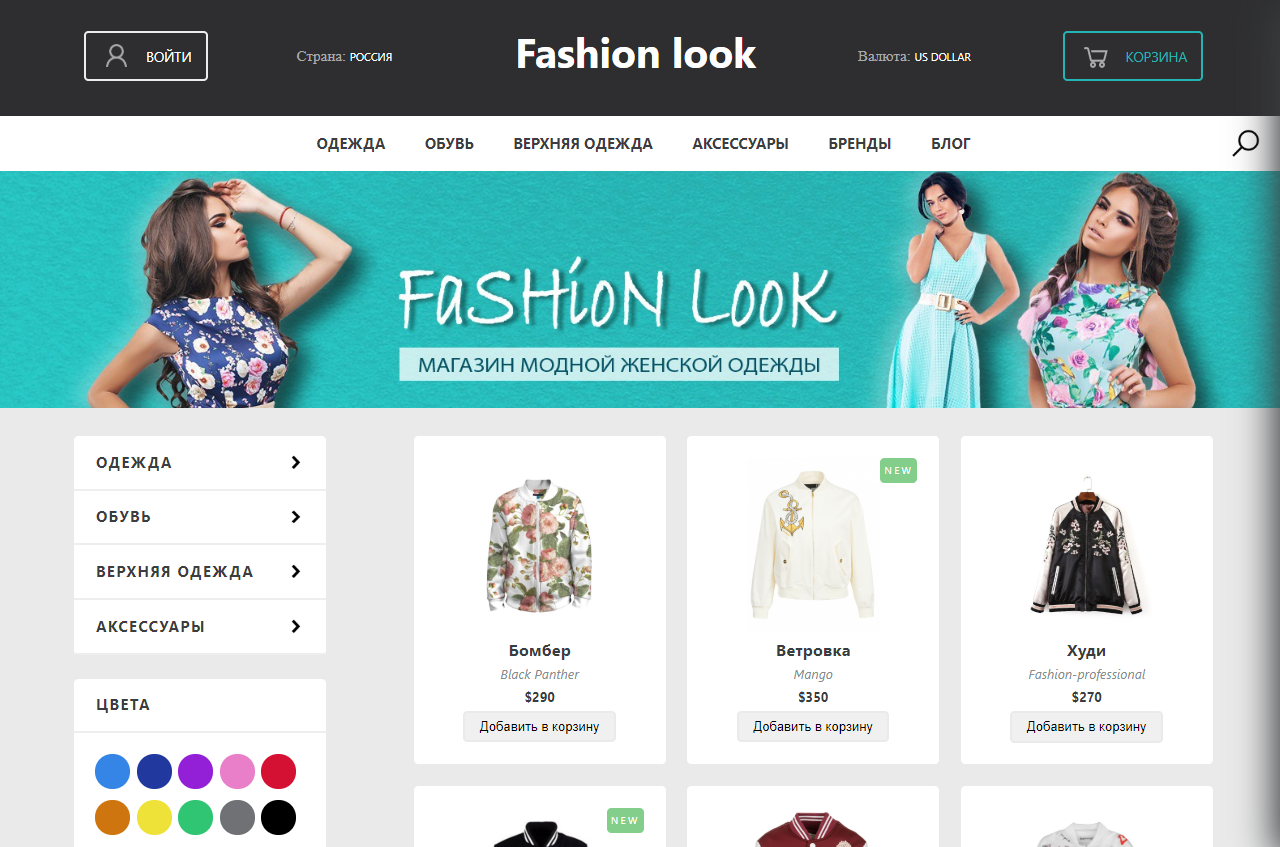
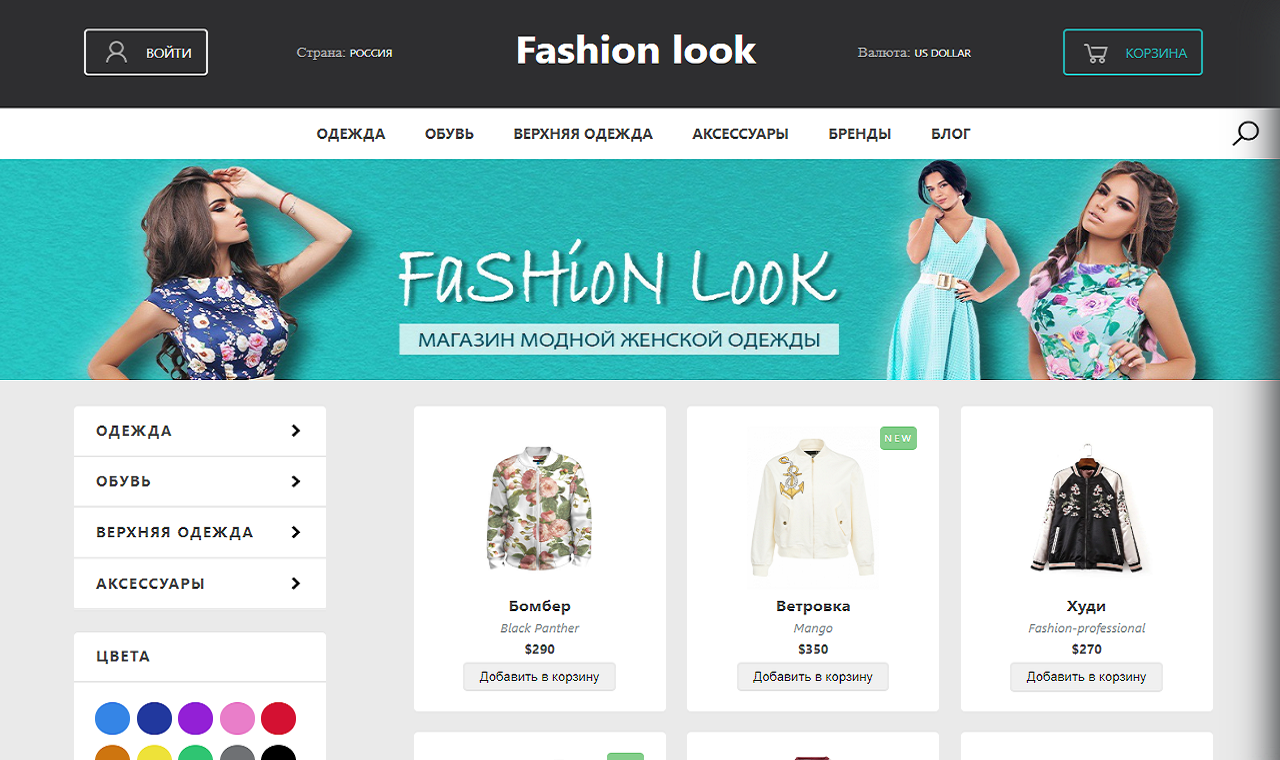
Адаптивность

diff --git a/css/style.css b/css/style.css
@@ -1,19 +1,24 @@
 *{
     box-sizing: border-box;
+    margin: 0;
+    padding: 0;
 }
 body{
     background-color: #20202D;
-    margin: 0;
     color: #fff;
     font-family: 'Roboto', sans-serif;
 }
 .container{
+    width: 90%;
     max-width: 945px;
     margin: auto;
 }
+img{
+    max-width: 100%;
+}
 .hero{
     padding-top: 50px;
-    height: 100vh;
+    min-height: 100vh;
     background: linear-gradient(0deg, #000000 0.01%, rgba(0, 0, 0, 0) 95.44%);
 }
 .hero-header{
@@ -21,16 +26,13 @@ body{
     justify-content: space-between;
     align-items: center;
     margin-bottom: 85px;
+    width: 90%;
 }
 .social-link:first-child{
     margin-left: 0;
 }
 .social-link{
     margin-left: 20px;
-}
-.social-img{
-    width: 10px;
-    height: 10px;
 }
 .hero-content{
     display: flex;
@@ -83,6 +85,7 @@ body{
 }
 section, .section{
     min-height: 100vh;
+    height: auto;
     padding: 4vh 0;
 }
 /* features */
@@ -120,8 +123,7 @@ section, .section{
     justify-content: space-between;
 }
 .project-image{
-    width: 400px;
-    height: 250px;
+    width: 450px;
     border-radius: 5px;
 }
 .project-text{
@@ -131,11 +133,7 @@ section, .section{
     flex-direction: column;
 }
 .project-title{
-    margin: 0;
     margin-bottom: 45px;
-}
-.project-subtitle{
-    margin: 0;
 }
 .project-info{
     font-size: 16px;
@@ -229,7 +227,6 @@ section, .section{
     font-weight: bold;
     font-size: 24px;
     line-height: 28px;
-    margin: 0;
     margin-bottom: 15px;
 }
 .contacts-link{
@@ -248,5 +245,130 @@ section, .section{
     color: #A5A5A5;
     margin-top: 72px;
 }
-
+/* responsive */
+@media (max-width: 1100px){
+    .hero-avatar{
+        width: 300px;
+        height: 300px;
+        border-width: 10px;
+    }
+    .project-text{
+        margin-left: 30px;
+    }
+}
+@media (max-width: 836px){
+    .hero-content{
+        flex-direction: column;
+    }
+    .hero-avatar{
+        order: 0;
+        width: 300px;
+        height: 300px;
+        border-width: 10px;
+        margin-bottom: 17px;
+    }
+    .hero-text{
+        order: 1;
+        text-align: center;
+    }
+    .features-item{
+        flex-basis: 45%;
+    }
+    .project-slide{
+        flex-direction: column;
+        align-items: center;
+    }
+    .project-image{
+        margin-bottom: 40px;
+    }
+    .contacts-block{
+        flex-direction: column;
+        align-items: center;
+    }
+    .contacts-form{
+        margin-bottom: 58px;
+    }
+}
+@media (max-width: 564px){
+    section, .section{
+        min-height: 60vh;
+        height: auto;
+        padding: 4vh 0;
+    }
+    .hero-avatar{
+        width: 145px;
+        height: 145px;
+        border-width: 4px;
+        background-size: 140%;
+        background-position: center top;
+    }
+    .hero-header{
+        margin-bottom: 38px;
+    }
+    .social-link{
+        margin-left: 5px;
+    }
+    .hero-title{
+        font-size: 24px;
+        line-height: 28px;
+    }
+    .hero-subtitle{
+        font-size: 16px;
+        line-height: 27px;
+        margin-bottom: 7px;
+    }
+    .hero-description{
+        font-size: 14px;
+        line-height: 20px;
+    }
+    .button{
+        padding: 20px 30px;
+    }
+    .section-title{
+        font-size: 19px;
+        line-height: 22px;
+    }
+    .features-item{
+        flex-basis: 100%;
+    }
+    .features-title{
+        font-size: 18px;
+        line-height: 28px;
+    }
+    .features-text{
+        font-size: 14px;
+        line-height: 28px;
+    }
+    .project-image {
+        margin-bottom: 30px;
+    }
+    .project-text {
+        margin-left: 0px;
+    }
+    .project-title {
+        margin-bottom: 25px;
+    }
+    .contacts-form{
+        padding: 40px 19px;
+    }
+    .form-title{
+        font-size: 15px;
+        line-height: 21px;
+    }
+    .form-button{
+        font-size: 11px;
+    }
+    .contacts-mail, .contacts-phone{
+        flex-basis: 100%;
+        margin-bottom: 30px;
+    }
+    .contacts-title{
+        font-size: 18px;
+        line-height: 21px;
+    }
+    .contacts-link{
+        font-size: 14px;
+        line-height: 16px;
+    }
+}
 
